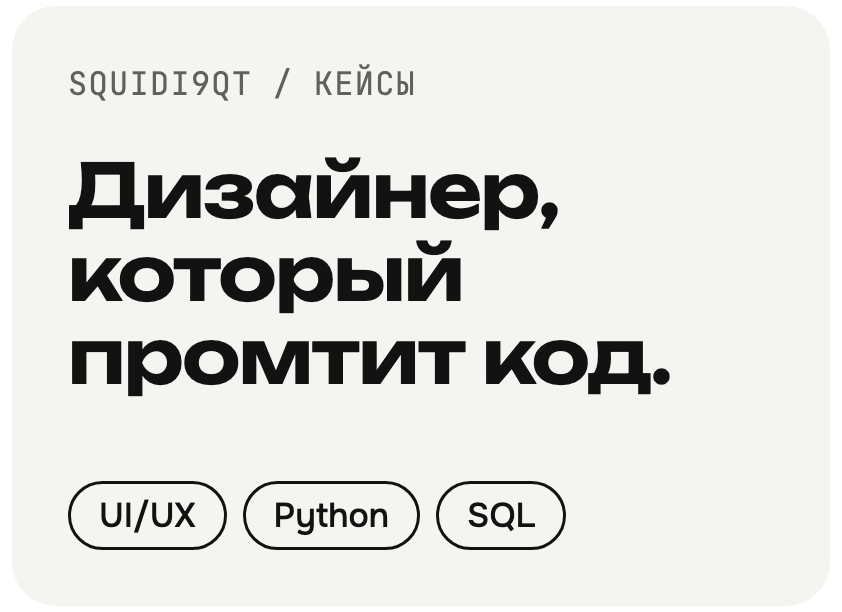
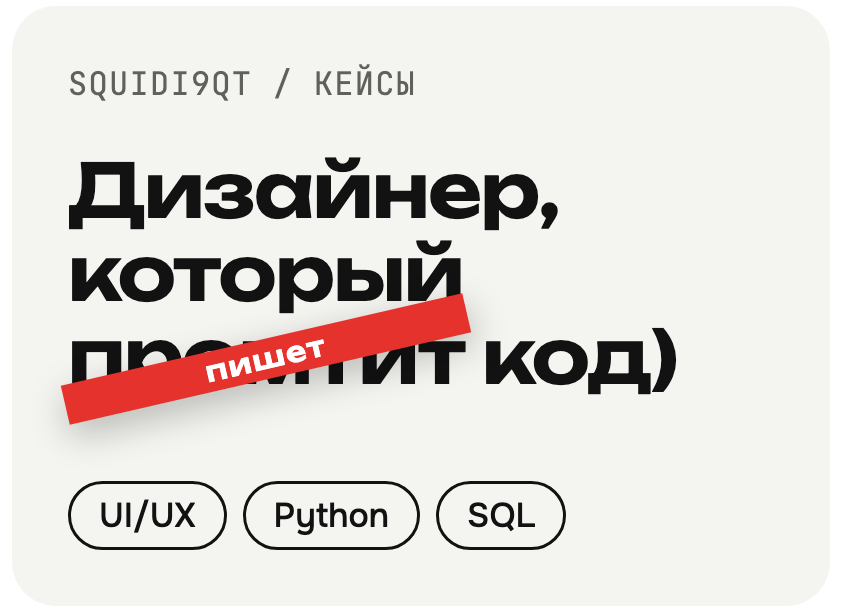
Промтит код) с красной лентой

Changed region(s): [[0.0618, 0.4657, 0.5558, 0.7141], [0.772, 0.5278, 0.8029, 0.652]]

diff --git a/README.md b/README.md
@@ -1,4 +1,4 @@
-<p align="center"><a href="https://github.com/Squidi9QT"><picture><source media="(prefers-color-scheme: dark)" srcset="assets/hero-dark.png"><img src="assets/hero-light.png" width="50.0%" alt="Squidi9QT: дизайнер, который промтит код"></picture></a><a href="https://github.com/Squidi9QT/KuBoring"><img src="assets/kuboring-light.png" width="50.0%" alt="KuBoring: шторка у выреза для macOS"></a><br><a href="https://github.com/Squidi9QT/KubPlay"><img src="assets/kubplay-light.png" width="33.37%" alt="KubPlay: игра, которая учит Python и SQL"></a><a href="https://github.com/Squidi9QT/BrandHub"><img src="assets/brandhub-light.png" width="33.25%" alt="BrandHub: аналитика рекламы в детском парке"></a><a href="https://github.com/Squidi9QT/job-analysis"><img src="assets/jobs-light.png" width="33.37%" alt="job-analysis: вакансии hh.ru с историей SCD2"></a><br><a href="https://github.com/Squidi9QT/Glassfox"><img src="assets/glassfox-light.png" width="37.05%" alt="Glassfox: Firefox в стиле Apple"></a><a href="https://github.com/Squidi9QT/Menu"><img src="assets/menu-light.png" width="32.54%" alt="Menu: меню для Claude Code"></a><a href="https://github.com/Squidi9QT/airport_simulation"><img src="assets/airport-light.png" width="30.4%" alt="airport_simulation: очередь в аэропорту на simpy"></a><br><a href="https://github.com/Squidi9QT"><picture><source media="(prefers-color-scheme: dark)" srcset="assets/stack-dark.png"><img src="assets/stack-light.png" width="100.0%" alt="Стек: требования, ERD, BI, Python, pandas, SQL, PostgreSQL, SQLite, SQLAlchemy, Jupyter, matplotlib, Plotly, Streamlit, pytest, REST API, Docker, Docker Compose, Git, GitHub Actions, Bash, Swift, JavaScript, HTML и CSS. Дизайн: UI/UX, Figma, Photoshop, 3ds Max, AutoCAD"></picture></a><br><a href="https://t.me/Squidi_t9"><img src="assets/telegram-light.png" width="33.37%" alt="Написать в Telegram: @Squidi_t9"></a><a href="mailto:kub.idrissov@gmail.com"><picture><source media="(prefers-color-scheme: dark)" srcset="assets/email-dark.png"><img src="assets/email-light.png" width="33.25%" alt="Почта: kub.idrissov@gmail.com"></picture></a><a href="https://github.com/Squidi9QT"><picture><source media="(prefers-color-scheme: dark)" srcset="assets/place-dark.png"><img src="assets/place-light.png" width="33.37%" alt="Томск (UTC+7) и Алматы (UTC+5)"></picture></a><br><a href="https://github.com/Squidi9QT"><picture><source media="(prefers-color-scheme: dark)" srcset="assets/signature-dark.png"><img src="assets/signature-light.png" width="100.0%" alt="Squidi9QT: дизайн, данные, код. Томск и Алматы"></picture></a></p>
+<p align="center"><a href="https://github.com/Squidi9QT"><picture><source media="(prefers-color-scheme: dark)" srcset="assets/hero-dark.png"><img src="assets/hero-light.png" width="50.0%" alt="Squidi9QT: дизайнер, который промтит (зачёркнуто: пишет) код"></picture></a><a href="https://github.com/Squidi9QT/KuBoring"><img src="assets/kuboring-light.png" width="50.0%" alt="KuBoring: шторка у выреза для macOS"></a><br><a href="https://github.com/Squidi9QT/KubPlay"><img src="assets/kubplay-light.png" width="33.37%" alt="KubPlay: игра, которая учит Python и SQL"></a><a href="https://github.com/Squidi9QT/BrandHub"><img src="assets/brandhub-light.png" width="33.25%" alt="BrandHub: аналитика рекламы в детском парке"></a><a href="https://github.com/Squidi9QT/job-analysis"><img src="assets/jobs-light.png" width="33.37%" alt="job-analysis: вакансии hh.ru с историей SCD2"></a><br><a href="https://github.com/Squidi9QT/Glassfox"><img src="assets/glassfox-light.png" width="37.05%" alt="Glassfox: Firefox в стиле Apple"></a><a href="https://github.com/Squidi9QT/Menu"><img src="assets/menu-light.png" width="32.54%" alt="Menu: меню для Claude Code"></a><a href="https://github.com/Squidi9QT/airport_simulation"><img src="assets/airport-light.png" width="30.4%" alt="airport_simulation: очередь в аэропорту на simpy"></a><br><a href="https://github.com/Squidi9QT"><picture><source media="(prefers-color-scheme: dark)" srcset="assets/stack-dark.png"><img src="assets/stack-light.png" width="100.0%" alt="Стек: требования, ERD, BI, Python, pandas, SQL, PostgreSQL, SQLite, SQLAlchemy, Jupyter, matplotlib, Plotly, Streamlit, pytest, REST API, Docker, Docker Compose, Git, GitHub Actions, Bash, Swift, JavaScript, HTML и CSS. Дизайн: UI/UX, Figma, Photoshop, 3ds Max, AutoCAD"></picture></a><br><a href="https://t.me/Squidi_t9"><img src="assets/telegram-light.png" width="33.37%" alt="Написать в Telegram: @Squidi_t9"></a><a href="mailto:kub.idrissov@gmail.com"><picture><source media="(prefers-color-scheme: dark)" srcset="assets/email-dark.png"><img src="assets/email-light.png" width="33.25%" alt="Почта: kub.idrissov@gmail.com"></picture></a><a href="https://github.com/Squidi9QT"><picture><source media="(prefers-color-scheme: dark)" srcset="assets/place-dark.png"><img src="assets/place-light.png" width="33.37%" alt="Томск (UTC+7) и Алматы (UTC+5)"></picture></a><br><a href="https://github.com/Squidi9QT"><picture><source media="(prefers-color-scheme: dark)" srcset="assets/signature-dark.png"><img src="assets/signature-light.png" width="100.0%" alt="Squidi9QT: дизайн, данные, код. Томск и Алматы"></picture></a></p>
 
 ## Кейсы
 
